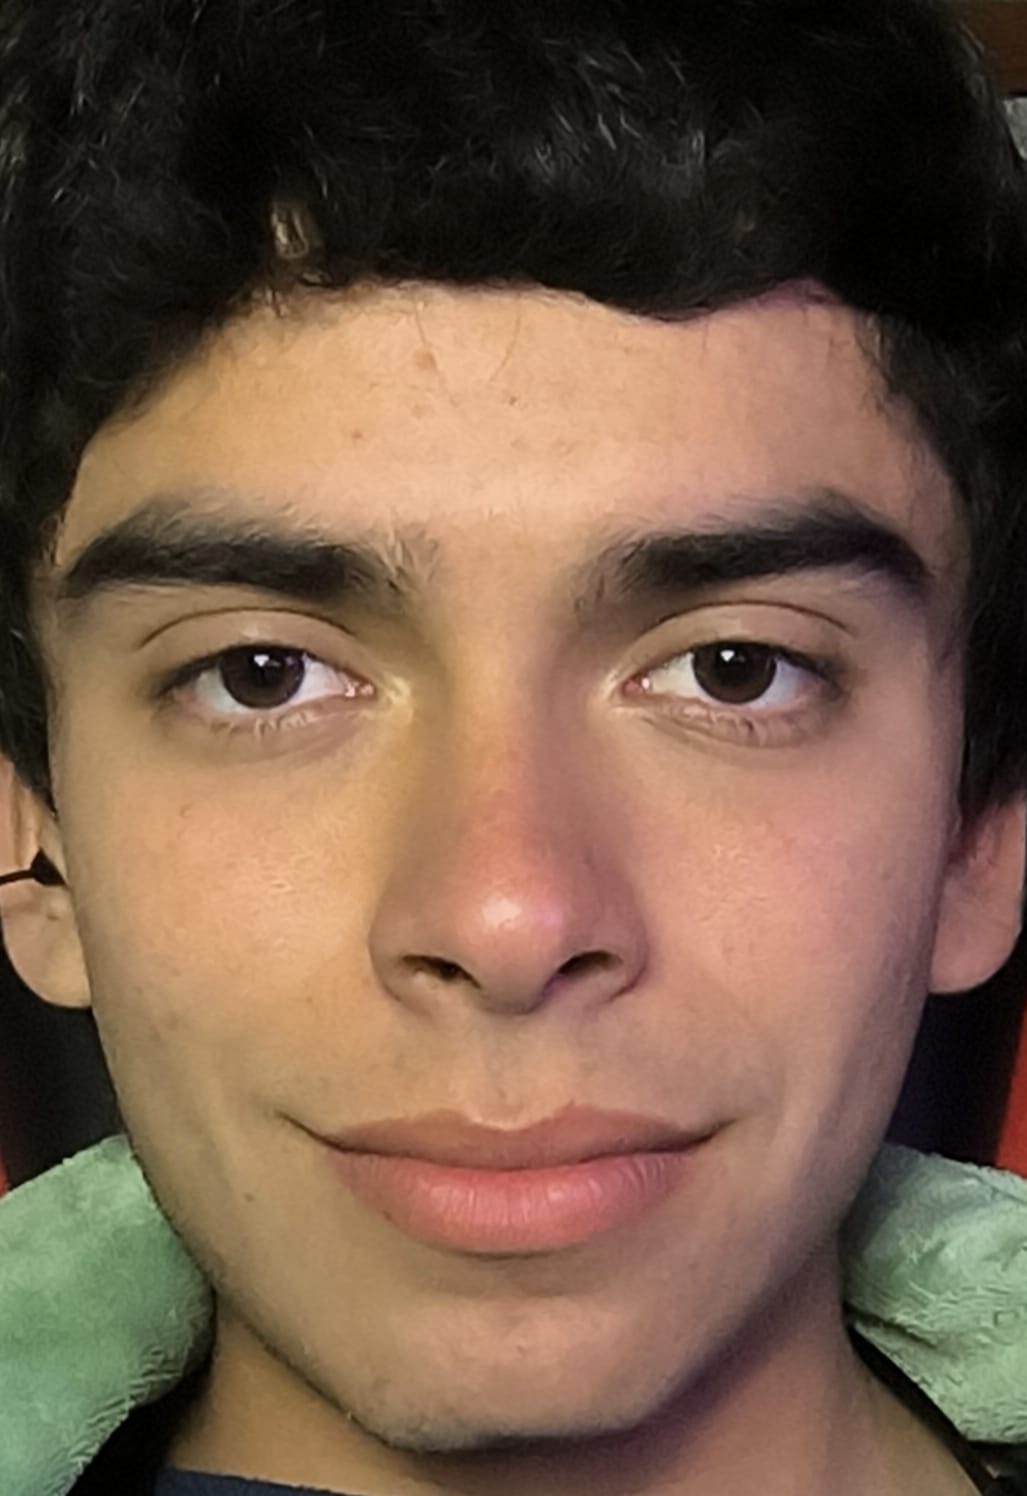
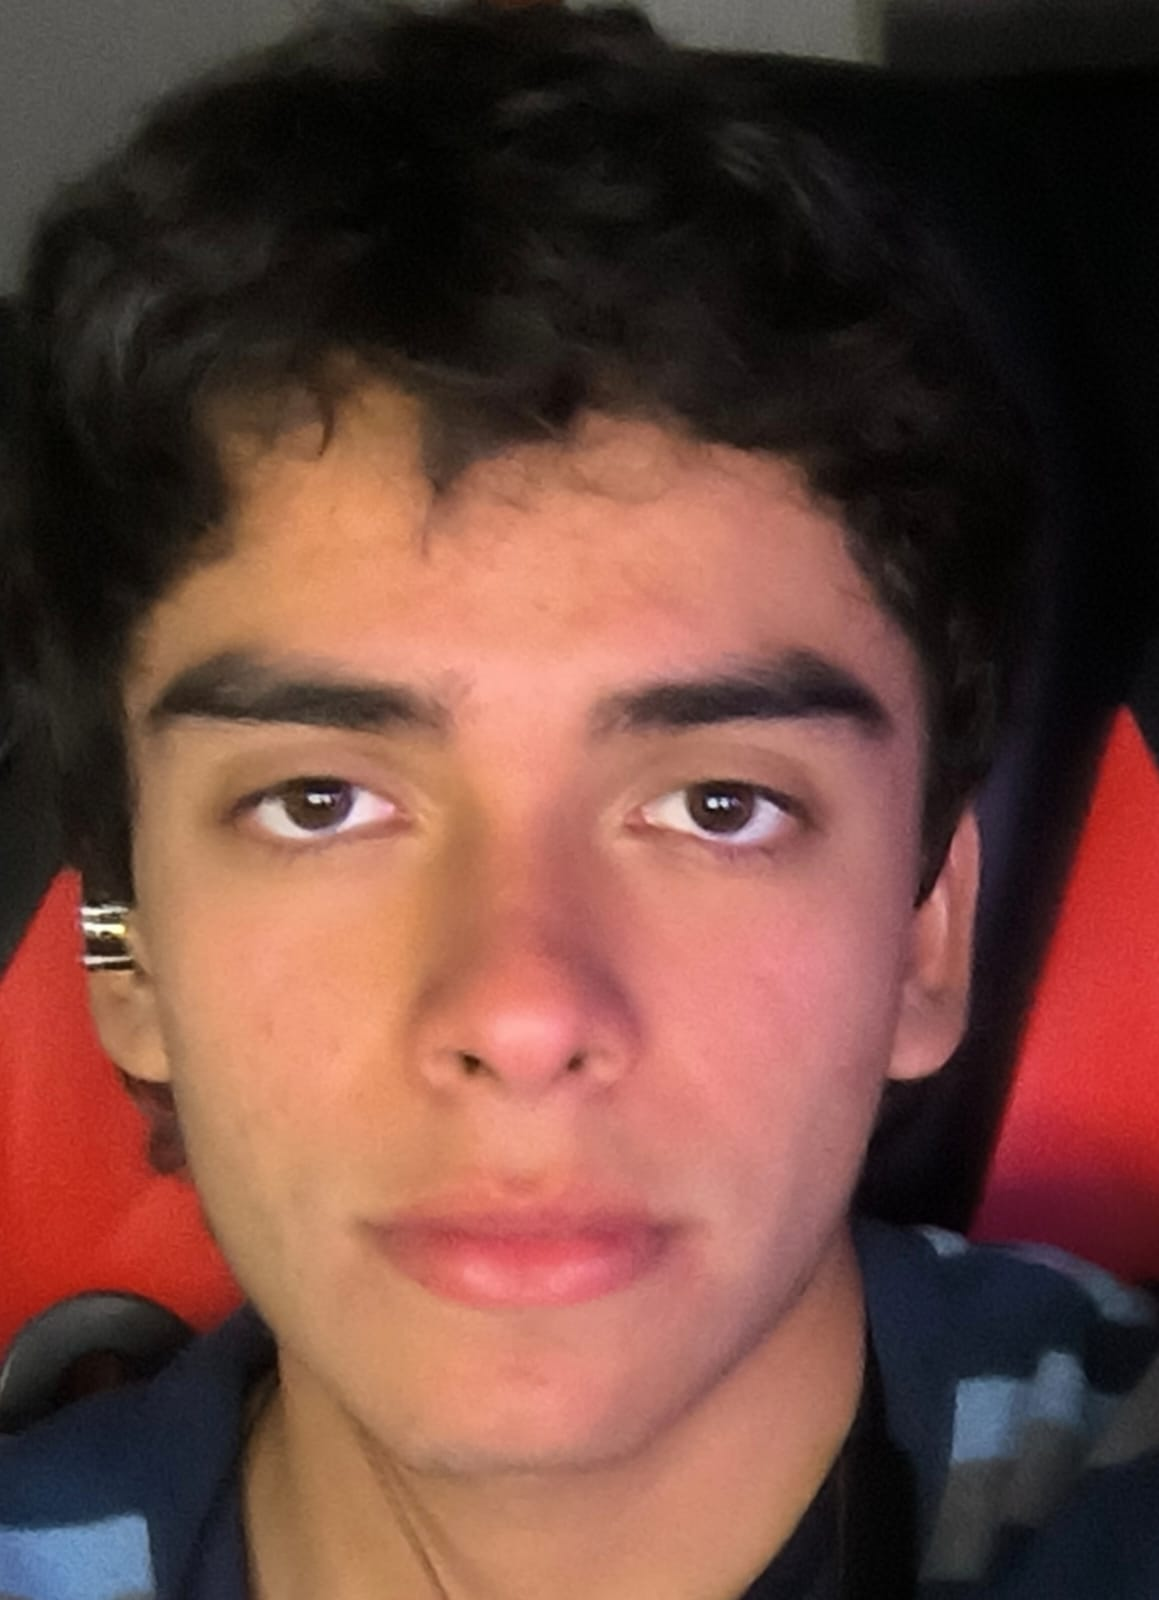
Foto personal agregada

diff --git a/Portafolio/frontend/index.html b/Portafolio/frontend/index.html
@@ -20,7 +20,7 @@
 
     <main>
         <section id="sobreMi">
-            <img id="Foto" src="/Portafolio/frontend/assets/img/Foto.jpg" alt="Mi foto">
+            <img id="Foto" src="/Portafolio/frontend/assets/img/perfil.jpg" alt="Mi foto">
             <h2>Sobre mi</h2>
             <p>Hola, soy <span style="font-size: 3rem;">Andrés Pasten</span>, estudiante de Informática con interés en
                 el desarrollo de software,<br>
